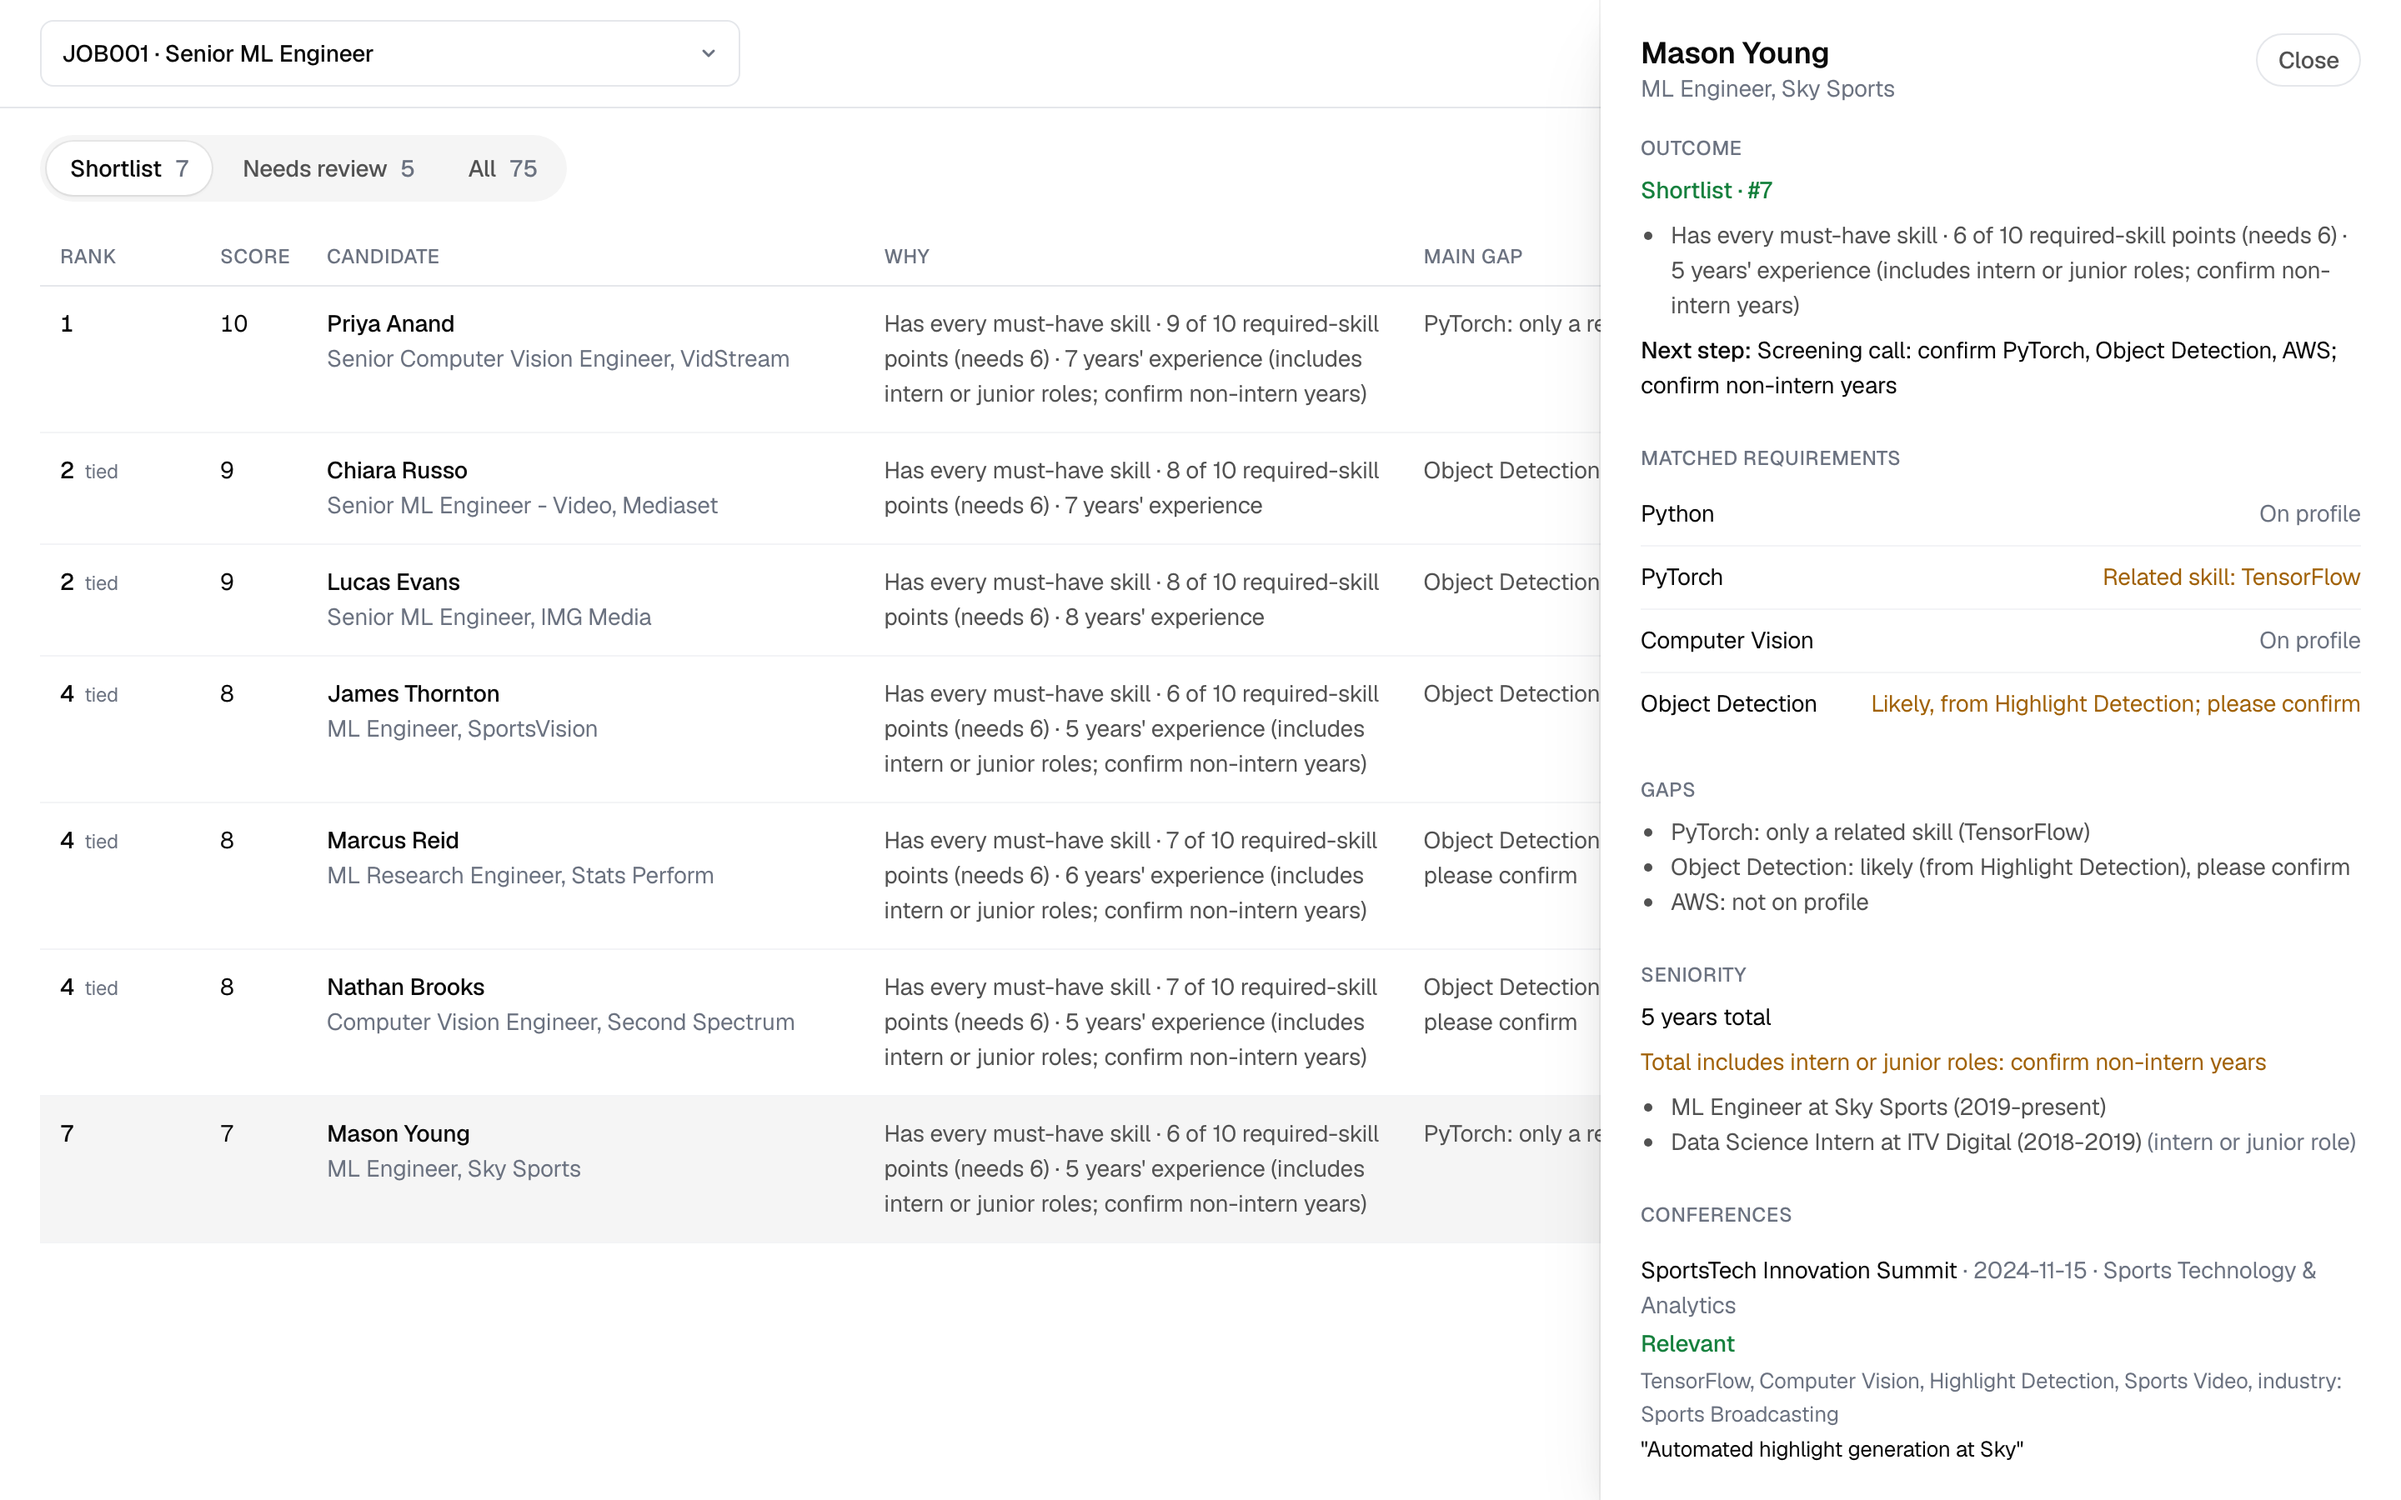
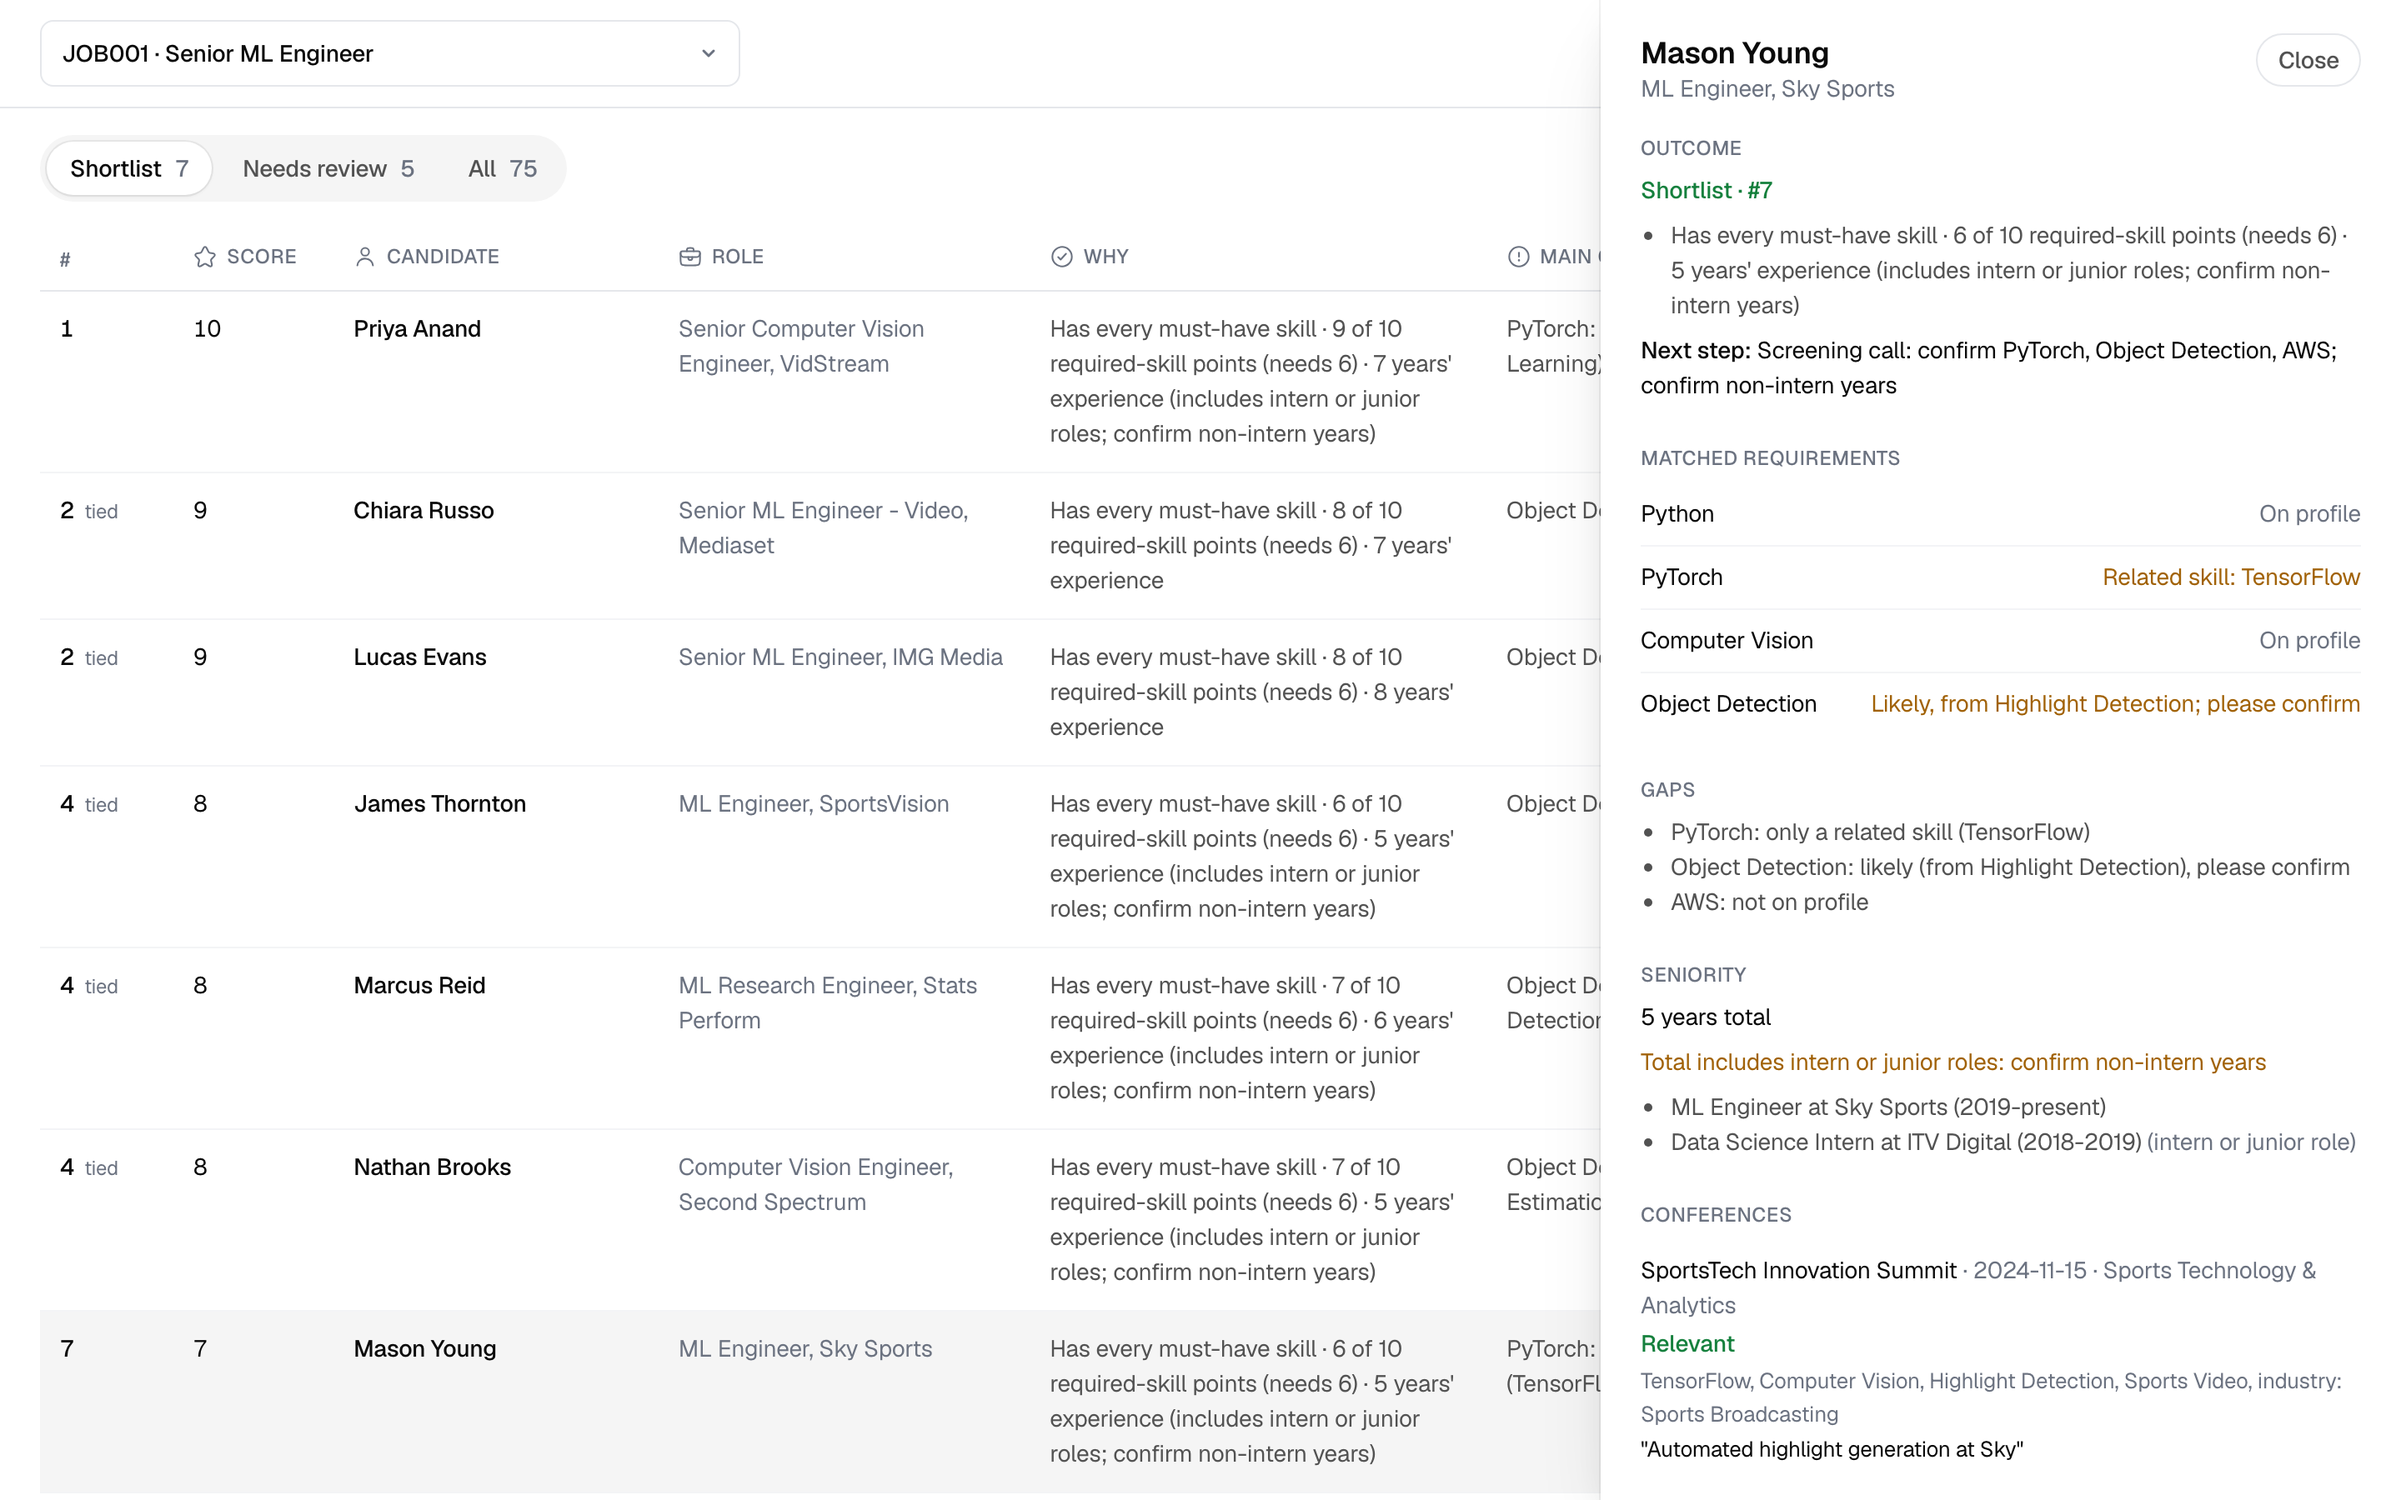
Recruiter view: Role column, # header, Hugeicons (free set) on column headers

diff --git a/view/CandidateTable.tsx b/view/CandidateTable.tsx
@@ -1,3 +1,12 @@
+import { HugeiconsIcon, type IconSvgElement } from '@hugeicons/react';
+import {
+  AlertCircleIcon,
+  Briefcase01Icon,
+  CheckmarkCircle02Icon,
+  StarIcon,
+  UserIcon,
+  UserMultipleIcon,
+} from '@hugeicons/core-free-icons';
 import type { CandidateAssessment, OutputRow } from '../pipeline';
 import { currentRole, fitReason, mainGap, OUTCOME_LABEL, referenceSummary } from './format';
 
@@ -31,21 +40,41 @@ function RankCell({ a, showOutcome }: { a: CandidateAssessment; showOutcome: boo
   return <span className={`outcome outcome-${a.recommendation}`}>{OUTCOME_LABEL[a.recommendation]}</span>;
 }
 
+function Head({ icon, label }: { icon: IconSvgElement; label: string }) {
+  return (
+    <span className="th-label">
+      <HugeiconsIcon icon={icon} size={14} strokeWidth={1.75} aria-hidden="true" />
+      {label}
+    </span>
+  );
+}
+
 export function CandidateTable({ items, showOutcome, openKey, onOpen, registerRow }: Props) {
   return (
     <table className="candidates">
       <thead>
         <tr>
           <th scope="col" className="col-rank">
-            {showOutcome ? 'Rank / outcome' : 'Rank'}
+            #
           </th>
           <th scope="col" className="col-score" title="Total points (required + nice to have + industry bonus)">
-            Score
+            <Head icon={StarIcon} label="Score" />
           </th>
-          <th scope="col" className="col-candidate">Candidate</th>
-          <th scope="col">Why</th>
-          <th scope="col">Main gap</th>
-          <th scope="col" className="col-ref">WSC connections</th>
+          <th scope="col" className="col-candidate">
+            <Head icon={UserIcon} label="Candidate" />
+          </th>
+          <th scope="col" className="col-role">
+            <Head icon={Briefcase01Icon} label="Role" />
+          </th>
+          <th scope="col">
+            <Head icon={CheckmarkCircle02Icon} label="Why" />
+          </th>
+          <th scope="col">
+            <Head icon={AlertCircleIcon} label="Main gap" />
+          </th>
+          <th scope="col" className="col-ref">
+            <Head icon={UserMultipleIcon} label="WSC connections" />
+          </th>
         </tr>
       </thead>
       <tbody>
@@ -59,23 +88,21 @@ export function CandidateTable({ items, showOutcome, openKey, onOpen, registerRo
                 <RankCell a={a} showOutcome={showOutcome} />
               </td>
               <td className="col-score">{a.candidate.profile ? a.points.total : '–'}</td>
-              <td>
-                <div className="col-name">
-                  <button
-                    type="button"
-                    className="row-link"
-                    ref={(el) => registerRow(key, el)}
-                    aria-expanded={key === openKey}
-                    onClick={(e) => {
-                      e.stopPropagation();
-                      onOpen(key);
-                    }}
-                  >
-                    {a.candidate.fullName}
-                  </button>
-                  <span className="muted">{currentRole(row)}</span>
-                </div>
+              <td className="col-name">
+                <button
+                  type="button"
+                  className="row-link"
+                  ref={(el) => registerRow(key, el)}
+                  aria-expanded={key === openKey}
+                  onClick={(e) => {
+                    e.stopPropagation();
+                    onOpen(key);
+                  }}
+                >
+                  {a.candidate.fullName}
+                </button>
               </td>
+              <td className="col-role muted">{currentRole(row)}</td>
               <td className="col-why">{fitReason(a)}</td>
               <td className={`col-gap${gap.unknown ? ' unknown' : ''}`}>{gap.text}</td>
               <td className={`col-ref${ref.unknown ? ' unknown' : ''}`}>{ref.text}</td>

diff --git a/view/styles.css b/view/styles.css
@@ -234,14 +234,26 @@ select {
 }
 
 .candidates .col-rank {
-  width: 96px;
+  width: 80px;
 }
 .candidates .col-score {
-  width: 64px;
+  width: 96px;
   font-variant-numeric: tabular-nums;
 }
 .candidates th.col-candidate {
-  width: 24%;
+  width: 14%;
+}
+.candidates th.col-role {
+  width: 16%;
+}
+
+.th-label {
+  display: inline-flex;
+  align-items: center;
+  gap: 6px;
+}
+.th-label svg {
+  flex-shrink: 0;
 }
 .candidates th.col-ref {
   width: 18%;
@@ -273,10 +285,7 @@ select {
   font-size: 12px;
 }
 
-.col-name {
-  display: flex;
-  flex-direction: column;
-}
+
 
 .row-link {
   align-self: flex-start;
@@ -523,7 +532,7 @@ select {
     grid-row: 1 / span 4;
     width: auto;
   }
-  .candidates .col-name {
+  .candidates td.col-role {
     margin-bottom: 4px;
   }
   .candidates td.col-ref,
